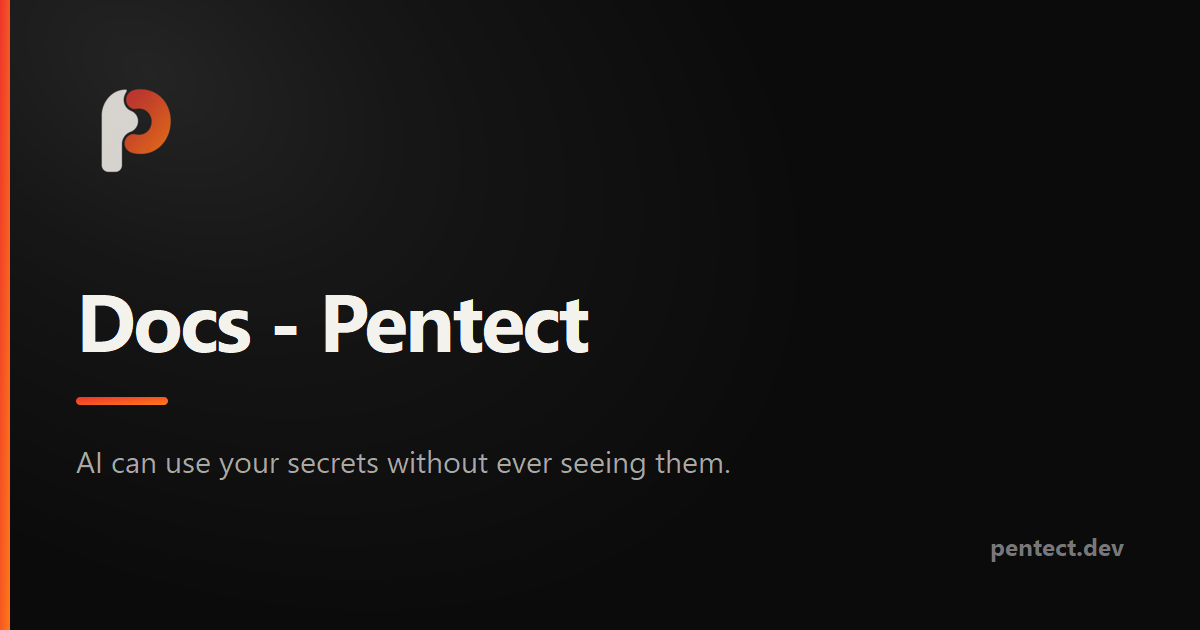
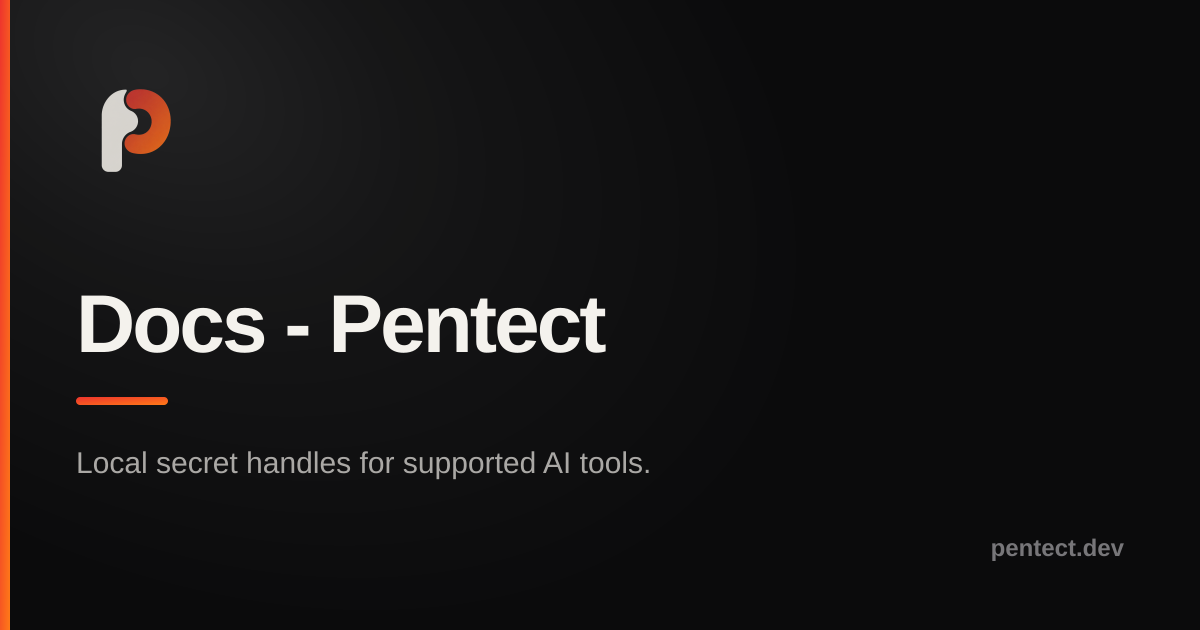
docs: publish detector evidence boundaries

Changed region(s): [[0.0617, 0.4524, 0.5242, 0.573], [0.0617, 0.7238, 0.6167, 0.754], [0.8325, 0.8444, 0.925, 0.9048]]

diff --git a/website/src/content/docs/protection/detectors.md b/website/src/content/docs/protection/detectors.md
@@ -1,0 +1,81 @@
+---
+title: Detectors and evidence
+description: The source, scope, version, and verification boundary of every built-in detector.
+---
+
+Pentect does not have one detector that recognizes every kind of private data.
+The standard masking engine combines the detectors below. `pentect mask` and
+supported AI request and tool-result paths construct this same engine; parsers
+may add trusted field and format context before the detectors run.
+
+This inventory describes the default built-in engine. A plugin can add rules,
+but plugin findings are plugin-provided evidence and are not part of the
+built-in coverage claims.
+
+## Upstream-derived detectors
+
+| Detector | Source and pinned version | Enabled coverage | Evidence and limit |
+| --- | --- | --- | --- |
+| `CredSweeperNativeDetector` | Samsung CredSweeper `v1.17.4`, commit `c7ad63b95ce0941954465a3b759046b14b88807b`; rule, keyword, allowlist, and ML assets are pinned in the binary | Credential and secret rules represented by the pinned assets | Pull requests compare the native result with official Python CredSweeper on one pinned CredData repository. A 16-shard weekly or manually dispatched job is configured to compare all 333 CredData repositories, including rule identity, value and variable spans, path and line context, entropy, and bounded ML probability. This is corpus evidence, not proof of general CredSweeper parity. |
+| `AlcatrazDetector` | Hoop Alcatraz `0.20.2`, commit `cd2e19b7d0f08b113c52ef52d3485c64a0871455`, compiled as a static Go helper and compressed into the Pentect binary | `EMAIL_ADDRESS`, `PHONE_NUMBER`, `CREDIT_CARD`, `IBAN_CODE`, `UK_NINO`, `IN_PAN`, `IT_FISCAL_CODE`, `ES_NIF`, `ES_NIE`, `SG_FIN`, `KR_RRN`, and `FI_PERSONAL_IDENTITY_CODE` | Helper tests cover each enabled entity and release smoke tests check representative findings on supported release platforms. Other Alcatraz entities are disabled. Alcatraz can still miss valid values or produce false positives. |
+
+Pentect does not call the CredSweeper Python package at runtime. The native
+implementation consumes pinned upstream assets and reimplements their behavior
+in Rust. “CredSweeper-derived” therefore does not mean that every future,
+unseen, or unsupported input is proven identical to official CredSweeper.
+
+## Pentect-maintained detectors
+
+These detectors are maintained in this repository. They must not be attributed
+to CredSweeper or Alcatraz. They ship at the Pentect release version and do not
+have separate component versions.
+
+| Detector | Finding category | What it masks by default | Evidence boundary |
+| --- | --- | --- | --- |
+| `ExplicitSecretDetector` | Secret | Non-empty values deliberately wrapped in `pentect(...)` or `mask(...)` | Unit and end-to-end handle tests; explicit user instruction, not inference |
+| `UrlDetector` | Secret, identifier, or endpoint | Credential-bearing URL and URI components, selected sensitive query values, `curl -u/-U` credentials, and selected cloud endpoint identifiers | Syntax and regression fixtures in the detector module |
+| `CliCredentialDetector` | Secret | Plaintext password arguments in supported PowerShell command shapes | Shell-token and command-shape regression fixtures |
+| `JwtDetector` | Secret | Structurally valid compact JWT and JWE values | JOSE structure, JSON header/payload, and size-bound tests; it does not establish token validity |
+| `KeyValueDetector` | Secret | Values in plaintext `key=value`, `key: value`, and similar secret-key contexts when key, separator, boundary, and value checks agree | Positive and benign-corpus regression fixtures; independently maintained heuristics |
+| `AuthCodeDetector` | Secret | Contextual authentication, verification, recovery, and one-time codes | Pattern, boundary, and known metadata false-positive tests |
+| `Bip39Detector` | Secret | Checksum-valid 12, 15, 18, 21, or 24-word BIP-39 mnemonics from the bundled language lists | Checksum and boundary tests; ordinary names and prose are not its scope |
+| `DecodeDetector` | Secret | An outer encoded or compressed value when bounded decoding reveals a finding from its inner secret detectors; optionally opaque encoded blobs when configured | Codec, nesting, expansion, byte, candidate, and time-budget tests |
+| `SensitiveKeyDetector` | Secret | Parser-provided structured values under a sensitive key or path | Structured-format and key-context tests |
+| `EnvValueDetector` | Secret | Values in parser-confirmed dotenv/secret-value regions and sensitive shell environment assignments | Dotenv, structured parser, POSIX shell, and PowerShell tests |
+| `StructuralDetector` | Secret | Cookie values and values in a closed list of credential-bearing HTTP headers | Protocol-position and benign-value tests |
+
+`RuleDetector` and `PatternMatchDetector` are building blocks used by compiled
+rules and plugins. They are not additional default detector registrations.
+Likewise, `EnvParser`, JSON parsers, and structured-format parsers provide
+regions and context; they are parsers, not detectors.
+
+## Labels are not provenance
+
+A placeholder label describes how Pentect will present and recover a value. A
+trusted parser can replace a generic detector label with a more useful field or
+environment-key label. For example, a credential found inside a `DATABASE_URL`
+field can use `DATABASE_URL` in its handle even when a different detector first
+recognized the value. The label alone therefore does not prove that an upstream
+CredSweeper rule, Alcatraz, or a particular Pentect detector produced the
+finding.
+
+Plugin findings and explicit `pentect(...)` or `mask(...)` directives have
+their own sources. They must not be counted as upstream-detector evidence.
+
+## What the checks prove
+
+A passing unit fixture proves only that the named case works. The pinned
+CredData comparison proves agreement on the exact corpus fields it compares.
+Release smoke tests prove that representative detector behavior is present in
+the produced binaries. None of these proves complete secret detection,
+complete personal-data detection, or identical behavior on every input.
+
+When describing coverage, use the narrowest supported statement:
+
+- name the detector or enabled entity;
+- name the client boundary or command that was tested;
+- name the corpus or fixture when claiming measured compatibility;
+- do not turn a passing sample into a general accuracy or parity claim.
+
+The [Security model](/protection/security-model/) describes boundaries that
+detectors cannot cover.

diff --git a/website/src/content/docs/protection/security-model.md b/website/src/content/docs/protection/security-model.md
@@ -13,12 +13,13 @@ permissions.
 
 ## Security properties
 
-- Pentect replaces sensitive values before supported requests leave the local
-  process.
+- Pentect replaces values found by its enabled detectors before supported
+  requests leave the local process.
 - Data needed to restore a handle stays in the local Pentect session. It is not
   added to the model request.
 - Pentect restores known handles only before supported local tools run.
-- Tool output is masked before it returns to the provider.
+- Tool output passes through the same detector configuration before it returns
+  to the provider.
 - Supported MCP and connector text and structured data are checked before they
   enter the next provider request. Media follows the configured OCR and
   `unscanned` policy; allowing unchecked media can bypass inspection.
@@ -90,6 +91,11 @@ a remote service.
 - Revoking a secret already inherited by a child or daemon started by an
   approved command
 - Proof that every OCR engine or detector will find every sensitive value
+
+The exact built-in detector inventory, its upstream versions, and the evidence
+behind each coverage statement are published in
+[Detectors and evidence](/protection/detectors/). Passing a named corpus does
+not prove equivalent behavior for every possible input.
 
 ## Compatibility mode
 

diff --git a/website/src/content/docs/reference/capabilities.md b/website/src/content/docs/reference/capabilities.md
@@ -44,9 +44,11 @@ See [Compatibility](/reference/compatibility/) for the exact boundary.
 | Browser screenshots | Applies the configured OCR and unchecked-media policy before supported results reach the provider |
 | Unknown provider structures | Returns an error by default |
 
-Pentect checks for secrets and personal data. Supported config formats include
-dotenv, Terraform, Kubernetes Secrets, kubeconfig, AWS, npm, PyPI, JSON, and
-other key/value formats.
+Pentect runs a documented set of secret and personal-data detectors. Supported
+config formats include dotenv, Terraform, Kubernetes Secrets, kubeconfig, AWS,
+npm, PyPI, JSON, and other key/value formats. See
+[Detectors and evidence](/protection/detectors/) for the source, version,
+coverage, and limits of every built-in detector.
 
 The built-in personal-data detector covers email addresses, phone numbers,
 payment cards, IBANs, and selected strongly formatted national identifiers:

diff --git a/website/src/content/docs/plugins/official.md b/website/src/content/docs/plugins/official.md
@@ -8,9 +8,12 @@ project-specific rules and optional local models.
 
 ## Built-in protection
 
-The Pentect binary includes CredSweeper-derived secret rules, structured labels
-for dotenv, Terraform, Kubernetes, JSON, and other config formats, plus checks
-for supported documents and images. Plugins cannot disable these checks.
+The Pentect binary includes a native implementation driven by pinned
+CredSweeper assets, Pentect-maintained structured secret checks, and a bundled
+Alcatraz helper for selected personal-data types. These sources have different
+evidence and must not be described as one upstream detector. See
+[Detectors and evidence](/protection/detectors/) for the exact inventory and
+limits. Plugins cannot disable the built-in checks.
 
 ## Plugin catalog
 

diff --git a/README.md b/README.md
@@ -6,7 +6,7 @@
 
 <h1 align="center">Pentect</h1>
 
-<p align="center">AI can use your secrets without ever seeing them.</p>
+<p align="center">Local secret handles for supported AI tools.</p>
 
 <p align="center">
   <a href="https://pentect.dev/">Documentation</a> ·

diff --git a/website/src/content/docs/index.md b/website/src/content/docs/index.md
@@ -2,7 +2,7 @@
 title: Docs - Pentect
 displayTitle: Docs_
 titleTemplate: false
-description: AI can use your secrets without ever seeing them.
+description: Local secret handles for supported AI tools.
 pageClass: docs-hub
 aside: false
 ---
